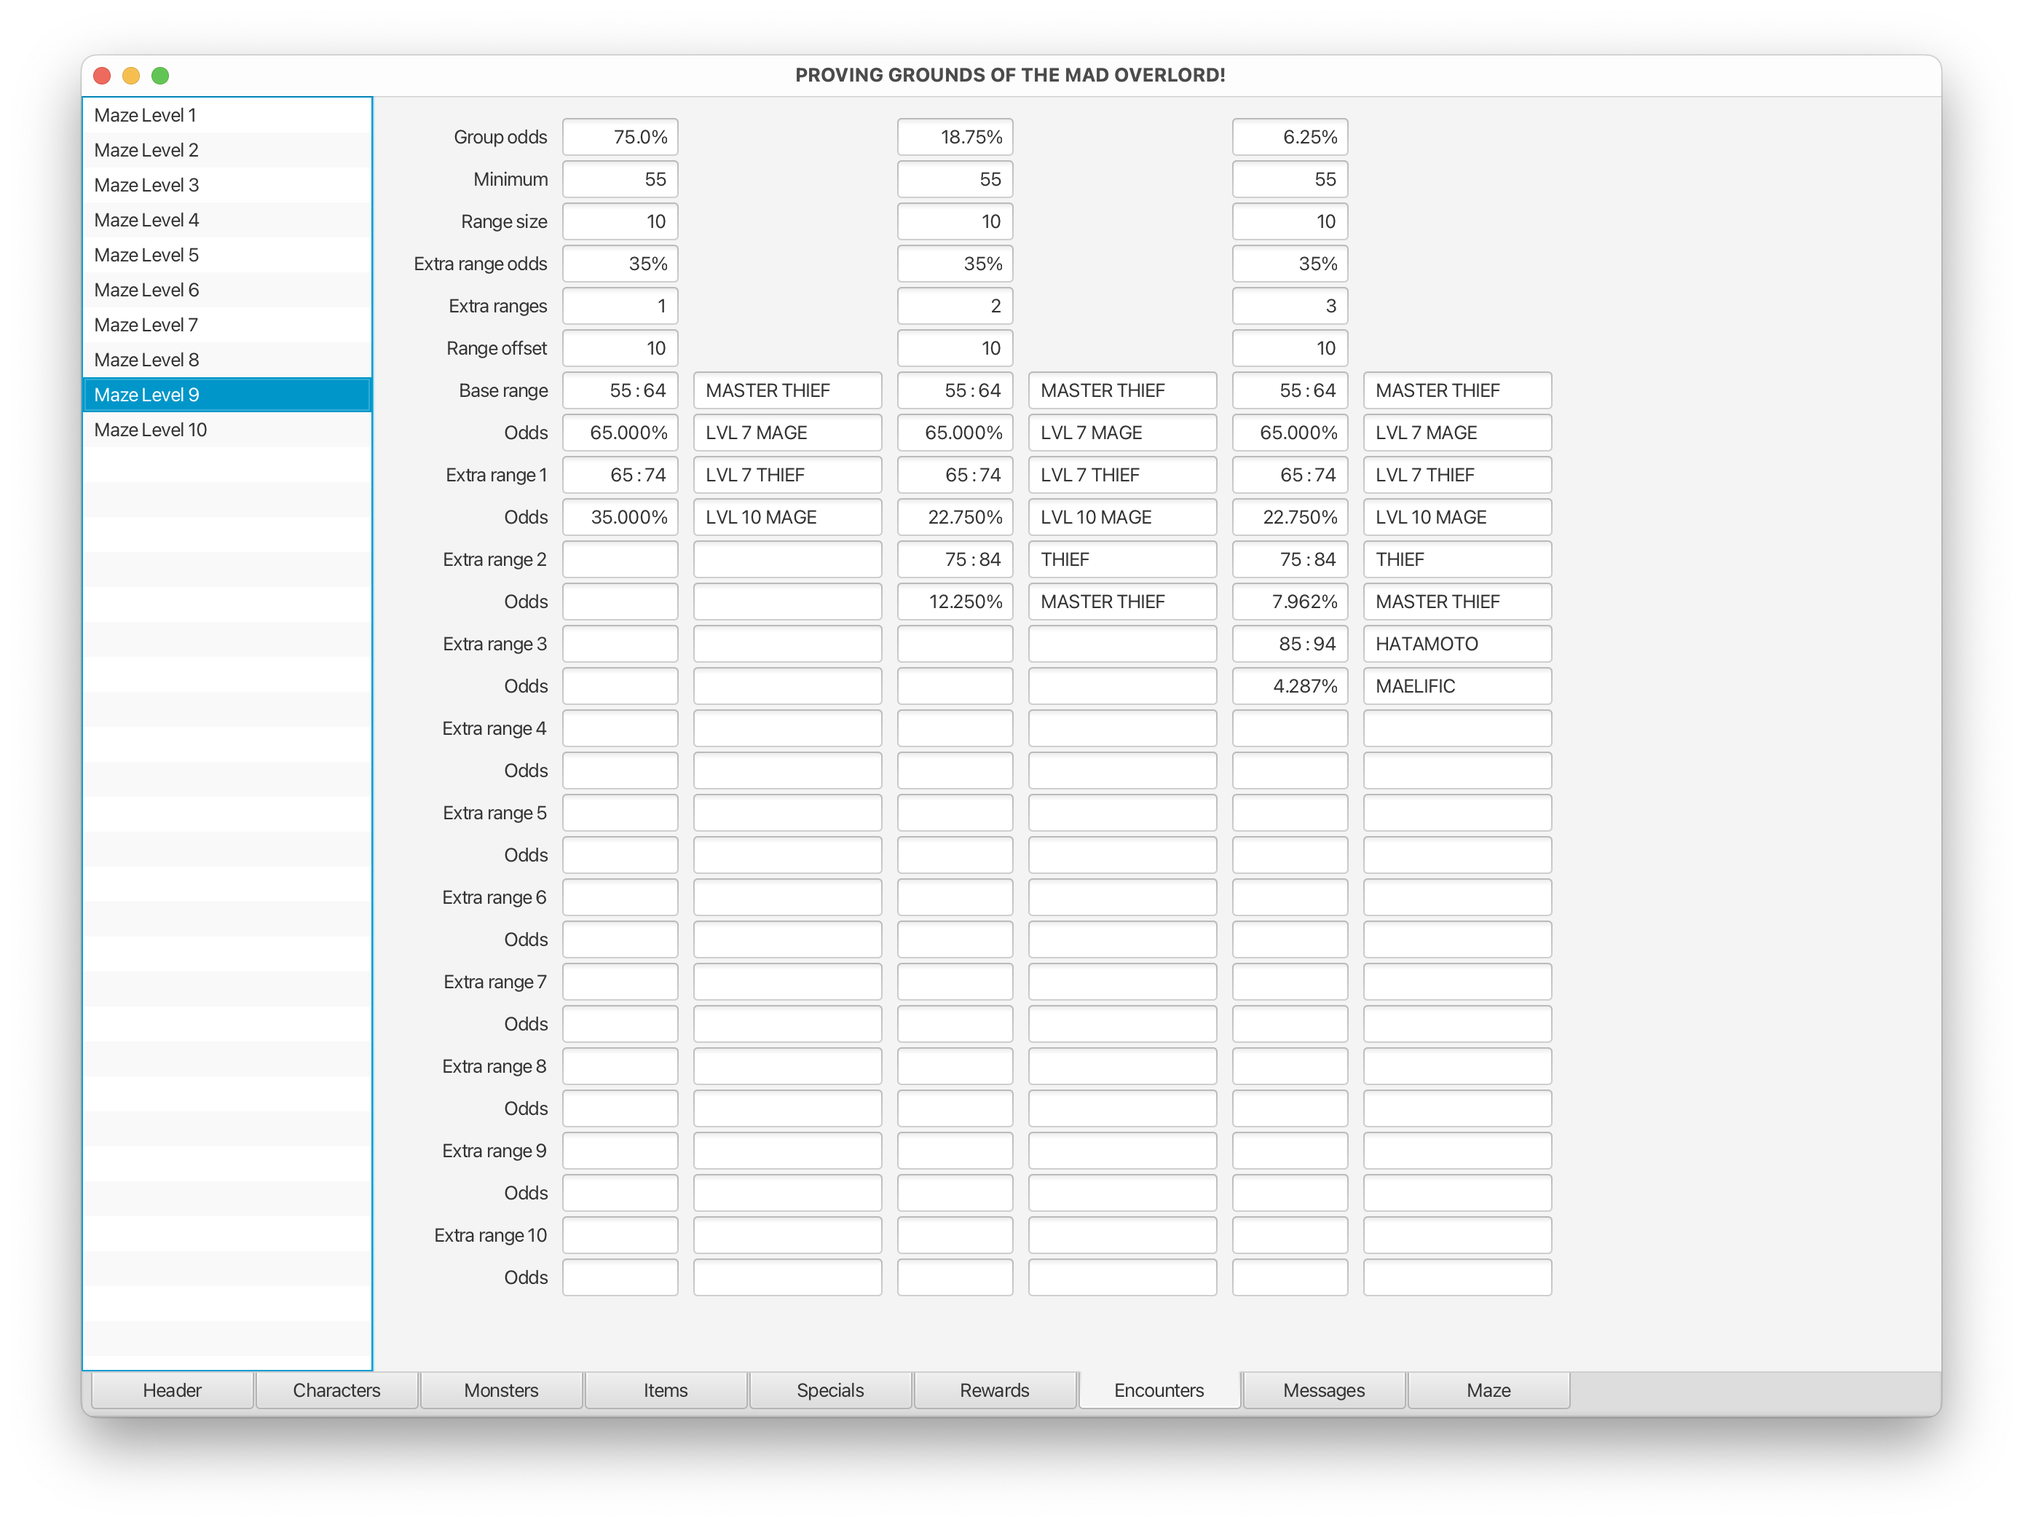
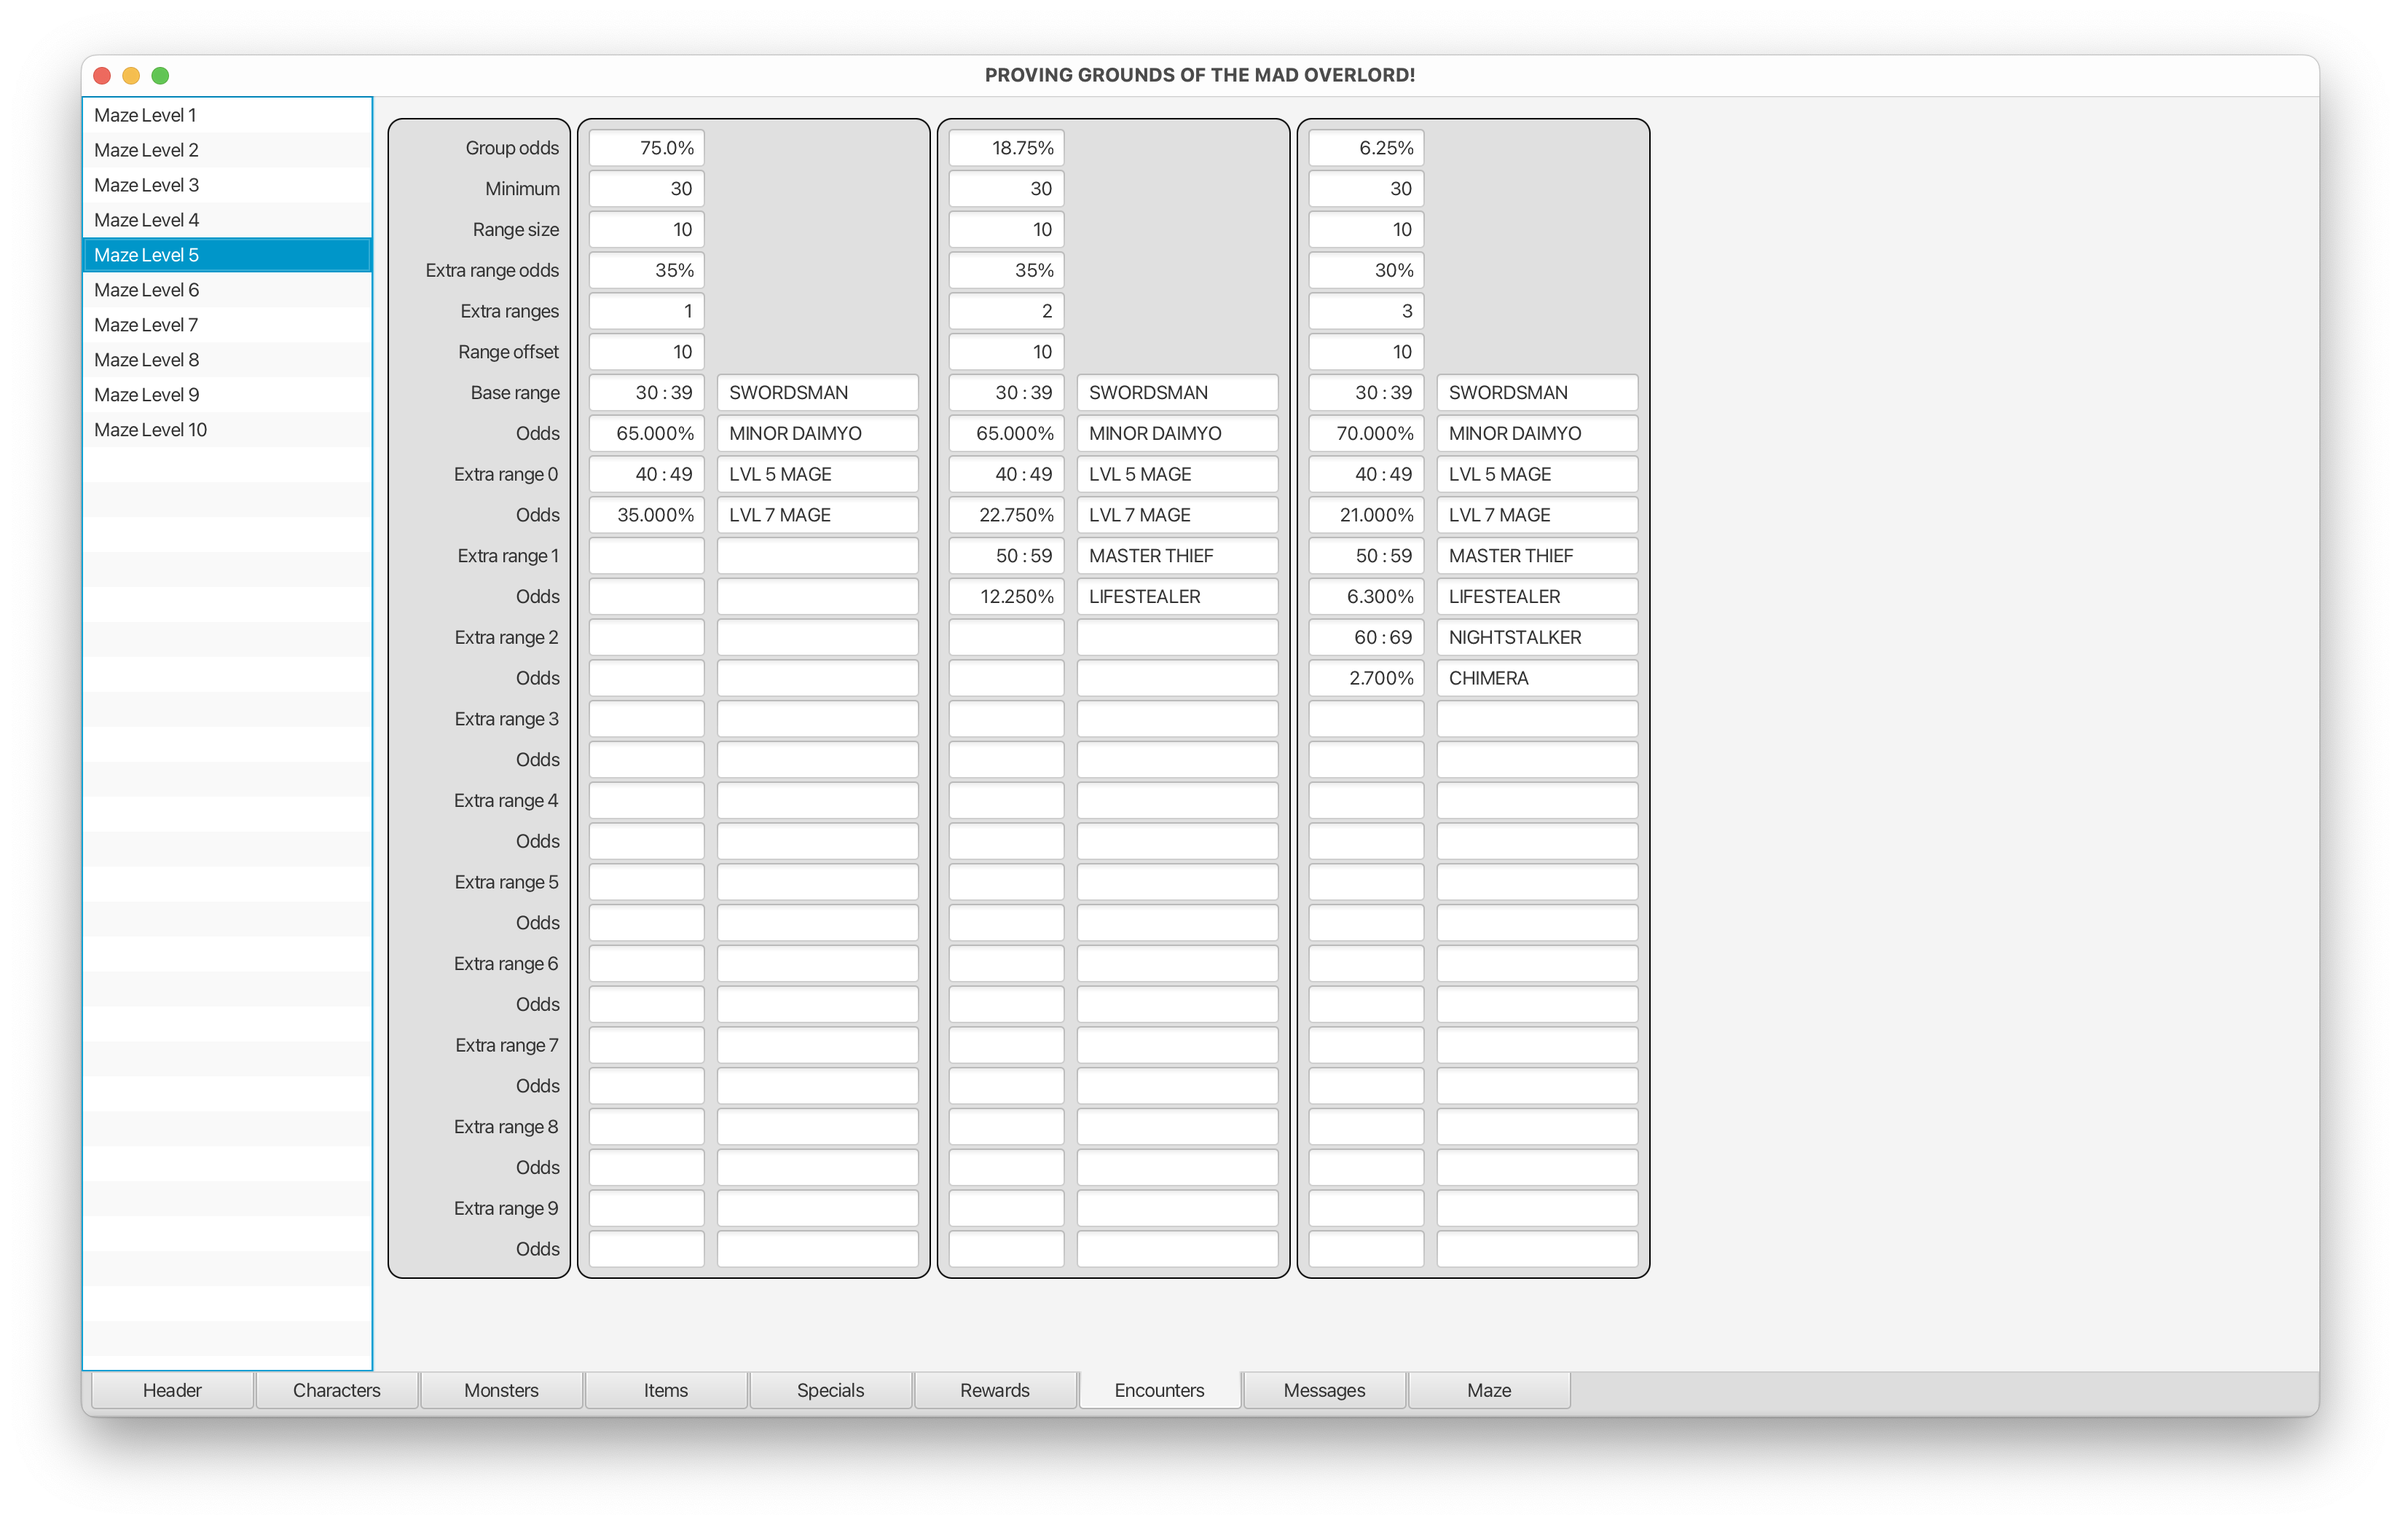
modified encounters pane

diff --git a/src/com/bytezone/wizardry/EncountersRootPane.java b/src/com/bytezone/wizardry/EncountersRootPane.java
@@ -1,157 +1,50 @@
 package com.bytezone.wizardry;
 
-import com.bytezone.appbase.DataLayout;
 import com.bytezone.appbase.DataPane;
-import com.bytezone.wizardry.data.EnemyOdds;
 import com.bytezone.wizardry.data.MazeLevel;
-import com.bytezone.wizardry.data.Monster;
 import com.bytezone.wizardry.data.WizardryData;
-import com.bytezone.wizardry.graphics.Display;
-
-import javafx.geometry.HPos;
-import javafx.geometry.Pos;
-import javafx.scene.control.ComboBox;
-import javafx.scene.control.TextField;
-import javafx.scene.layout.GridPane;
 
 //-----------------------------------------------------------------------------------//
 public class EncountersRootPane extends DataPane
 //-----------------------------------------------------------------------------------//
 {
-  private static final int MAX_GROUPS = 3;
-
-  ComboBox<MazeLevel> mazeLevelList = new ComboBox<> ();
-
-  TextField[][] textOut1 = new TextField[MAX_GROUPS][];
-  TextField[][] textOut2 = new TextField[MAX_GROUPS * 2][];
-
-  Display display;
-  private WizardryData wizardry;
+  private EncountersLabelsPane encountersLabels = new EncountersLabelsPane ();
+  private EncountersTable encountersTable0 = new EncountersTable (0);
+  private EncountersTable encountersTable1 = new EncountersTable (1);
+  private EncountersTable encountersTable2 = new EncountersTable (2);
 
   // ---------------------------------------------------------------------------------//
   public EncountersRootPane ()
   // ---------------------------------------------------------------------------------//
   {
-    super (7, 27);                             // columns, rows
+    super (50, 27);                           // columns, rows
 
-    setColumnConstraints (110, 80, 130, 80, 130, 80, 130);
-    setPadding (defaultInsets);
+    setAllColumnConstraints (5);              // all columns 5 pixels wide
+    setPadding (defaultInsets);               // only the root pane has insets
 
-    String[] labels1 = { "Group odds", "Minimum", "Range size", "Extra range odds", "Extra ranges",
-        "Range offset" };
+    setLayout (encountersLabels, 0, 0);
+    setLayout (encountersTable0, 10, 0);
+    setLayout (encountersTable1, 29, 0);
+    setLayout (encountersTable2, 48, 0);
 
-    String[] labels2 = new String[22];
-    labels2[0] = "Base range";
-    labels2[1] = "Odds";
-    for (int i = 1; i < 11; i++)
-    {
-      labels2[i * 2] = "Extra range " + i;
-      labels2[i * 2 + 1] = labels2[1];
-    }
-
-    // upper block
-    createLabelsVertical (labels1, 0, 0, HPos.RIGHT);
-
-    textOut1[0] = createTextFields (new DataLayout (1, 0, 6, Pos.CENTER_RIGHT, 1));
-    textOut1[1] = createTextFields (new DataLayout (3, 0, 6, Pos.CENTER_RIGHT, 1));
-    textOut1[2] = createTextFields (new DataLayout (5, 0, 6, Pos.CENTER_RIGHT, 1));
-
-    // lower block
-    createLabelsVertical (labels2, 0, 6, HPos.RIGHT);
-
-    DataLayout dataLayout = new DataLayout (1, 6, 22, Pos.CENTER_RIGHT, 1);
-    for (int i = 0; i < 5; i += 2)
-    {
-      textOut2[i] = createTextFields (dataLayout, Pos.CENTER_RIGHT);
-      textOut2[i + 1] = createTextFields (dataLayout, Pos.CENTER_LEFT);
-    }
+    getChildren ().addAll (encountersLabels, encountersTable0, encountersTable1, encountersTable2);
   }
 
   // ---------------------------------------------------------------------------------//
   public void setWizardry (WizardryData wizardry)
   // ---------------------------------------------------------------------------------//
   {
-    this.wizardry = wizardry;
-
-    for (int i = 0; i < MAX_GROUPS; i++)
-      reset (textOut1[i]);
-    for (int i = 0; i < MAX_GROUPS * 2; i++)
-      reset (textOut2[i]);
-
-    if (false)
-    {
-      if (display != null)
-        getChildren ().remove (display);
-
-      if (wizardry.getScenarioId () < 3)
-      {
-        display = new Display (wizardry);
-        GridPane.setConstraints (display, 7, 1);
-        GridPane.setRowSpan (display, 12);
-        getChildren ().add (display);
-      }
-    }
+    encountersTable0.setWizardry (wizardry);
+    encountersTable1.setWizardry (wizardry);
+    encountersTable2.setWizardry (wizardry);
   }
 
   // ---------------------------------------------------------------------------------//
   void update (MazeLevel mazeLevel)
   // ---------------------------------------------------------------------------------//
   {
-    EnemyOdds[] enemyOdds = mazeLevel.getEnemyOdds ();
-    double[] groupOdds = { 75, 18.75, 6.25 };
-
-    for (int i = 0; i < MAX_GROUPS; i++)
-    {
-      int minEnemy = enemyOdds[i].minEnemy;
-      int rangeSize = enemyOdds[i].rangeSize;
-      int extraRangeOffset = enemyOdds[i].extraRangeOffset;
-      int totExtraRanges = enemyOdds[i].totExtraRanges;
-      int extraRangeOdds = enemyOdds[i].extraRangeOdds;
-
-      double[] oddsTable = enemyOdds[i].getOdds ();
-
-      for (int row = 2; row < 22; row++)
-      {
-        setText (textOut2[i * 2][row], "");
-        setText (textOut2[i * 2 + 1][row], "");
-      }
-
-      setText (textOut1[i][0], groupOdds[i] + "%");
-      setText (textOut1[i][1], minEnemy);
-      setText (textOut1[i][2], rangeSize);
-      setText (textOut1[i][3], extraRangeOdds + "%");
-      setText (textOut1[i][4], totExtraRanges);
-      setText (textOut1[i][5], extraRangeOffset);
-
-      int maxEnemy = minEnemy + rangeSize - 1;
-      setMinMax (i * 2, 0, minEnemy, maxEnemy);
-      setText (textOut2[i * 2][1], String.format ("%5.3f%%", oddsTable[0] * 100));
-
-      for (int row = 1; row <= totExtraRanges; row++)
-      {
-        minEnemy += extraRangeOffset;
-        maxEnemy += extraRangeOffset;
-        setMinMax (i * 2, row * 2, minEnemy, maxEnemy);
-        setText (textOut2[i * 2][row * 2 + 1], String.format ("%5.3f%%", oddsTable[row] * 100));
-      }
-    }
-
-    if (display != null)
-      display.update (mazeLevel);
-  }
-
-  // ---------------------------------------------------------------------------------//
-  private void setMinMax (int index1, int index2, int minEnemy, int maxEnemy)
-  // ---------------------------------------------------------------------------------//
-  {
-    Monster minMonster = wizardry.getMonster (minEnemy);
-    Monster maxMonster = wizardry.getMonster (maxEnemy);
-
-    String minName = minMonster == null ? "?" : minMonster.name;
-    String maxName = maxMonster == null ? "?" : maxMonster.name;
-
-    setText (textOut2[index1][index2], minEnemy + " : " + maxEnemy);
-    setText (textOut2[index1 + 1][index2], minName);
-    setText (textOut2[index1 + 1][index2 + 1], maxName);
+    encountersTable0.update (mazeLevel);
+    encountersTable1.update (mazeLevel);
+    encountersTable2.update (mazeLevel);
   }
 }

diff --git a/src/com/bytezone/wizardry/EncountersTable.java b/src/com/bytezone/wizardry/EncountersTable.java
@@ -1,0 +1,101 @@
+package com.bytezone.wizardry;
+
+import com.bytezone.appbase.BorderedDataPane;
+import com.bytezone.appbase.DataLayout;
+import com.bytezone.wizardry.data.EnemyOdds;
+import com.bytezone.wizardry.data.MazeLevel;
+import com.bytezone.wizardry.data.Monster;
+import com.bytezone.wizardry.data.WizardryData;
+
+import javafx.geometry.Pos;
+import javafx.scene.control.TextField;
+
+public class EncountersTable extends BorderedDataPane
+{
+  TextField[] textOut1;
+  TextField[] textOut2;
+
+  private WizardryData wizardry;
+  private final int groupNo;
+  private static double[] groupOdds = { 75, 18.75, 6.25 };
+
+  // ---------------------------------------------------------------------------------//
+  public EncountersTable (int groupNo)
+  // ---------------------------------------------------------------------------------//
+  {
+    super (1, 28);                              // columns, rows
+
+    this.groupNo = groupNo;
+
+    setColumnConstraints (80, 139);
+
+    textOut1 = createTextFields (new DataLayout (0, 0, 28, Pos.CENTER_RIGHT, 1));
+    textOut2 = createTextFields (new DataLayout (1, 6, 22, Pos.CENTER_LEFT, 1));
+  }
+
+  // ---------------------------------------------------------------------------------//
+  public void setWizardry (WizardryData wizardry)
+  // ---------------------------------------------------------------------------------//
+  {
+    this.wizardry = wizardry;
+
+    reset (textOut1);
+    reset (textOut2);
+  }
+
+  // ---------------------------------------------------------------------------------//
+  void update (MazeLevel mazeLevel)
+  // ---------------------------------------------------------------------------------//
+  {
+
+    EnemyOdds[] enemyOdds = mazeLevel.getEnemyOdds ();
+
+    int minEnemy = enemyOdds[groupNo].minEnemy;
+    int rangeSize = enemyOdds[groupNo].rangeSize;
+    int extraRangeOffset = enemyOdds[groupNo].extraRangeOffset;
+    int totExtraRanges = enemyOdds[groupNo].totExtraRanges;
+    int extraRangeOdds = enemyOdds[groupNo].extraRangeOdds;
+
+    double[] oddsTable = enemyOdds[groupNo].getOdds ();
+
+    for (int row = 2; row < 22; row++)        // skip base
+    {
+      setText (textOut1[row + 6], "");
+      setText (textOut2[row], "");
+    }
+
+    setText (textOut1[0], groupOdds[groupNo] + "%");
+    setText (textOut1[1], minEnemy);
+    setText (textOut1[2], rangeSize);
+    setText (textOut1[3], extraRangeOdds + "%");
+    setText (textOut1[4], totExtraRanges);
+    setText (textOut1[5], extraRangeOffset);
+
+    int maxEnemy = minEnemy + rangeSize - 1;
+    setMinMax (0, minEnemy, maxEnemy);
+    setText (textOut1[7], String.format ("%5.3f%%", oddsTable[0] * 100));
+
+    for (int row = 1; row <= totExtraRanges; row++)
+    {
+      minEnemy += extraRangeOffset;
+      maxEnemy += extraRangeOffset;
+      setMinMax (row * 2, minEnemy, maxEnemy);
+      setText (textOut1[row * 2 + 7], String.format ("%5.3f%%", oddsTable[row] * 100));
+    }
+  }
+
+  // ---------------------------------------------------------------------------------//
+  private void setMinMax (int index, int minEnemy, int maxEnemy)
+  // ---------------------------------------------------------------------------------//
+  {
+    Monster minMonster = wizardry.getMonster (minEnemy);
+    Monster maxMonster = wizardry.getMonster (maxEnemy);
+
+    String minName = minMonster == null ? "?" : minMonster.name;
+    String maxName = maxMonster == null ? "?" : maxMonster.name;
+
+    setText (textOut1[index + 6], minEnemy + " : " + maxEnemy);
+    setText (textOut2[index], minName);
+    setText (textOut2[index + 1], maxName);
+  }
+}

diff --git a/src/com/bytezone/wizardry/EncountersLabelsPane.java b/src/com/bytezone/wizardry/EncountersLabelsPane.java
@@ -1,0 +1,31 @@
+package com.bytezone.wizardry;
+
+import com.bytezone.appbase.BorderedDataPane;
+
+import javafx.geometry.HPos;
+
+// -----------------------------------------------------------------------------------//
+public class EncountersLabelsPane extends BorderedDataPane
+// -----------------------------------------------------------------------------------//
+{
+  // ---------------------------------------------------------------------------------//
+  public EncountersLabelsPane ()
+  // ---------------------------------------------------------------------------------//
+  {
+    super (1, 28);                              // columns, rows
+
+    setColumnConstraints (110);
+
+    String[] labels = { "Group odds", "Minimum", "Range size", "Extra range odds", "Extra ranges",
+        "Range offset", "Base range", "Odds", "", "", "", "", "", "", "", "", "", "", "", "", "",
+        "", "", "", "", "", "", "" };
+
+    for (int i = 0; i < 10; i++)
+    {
+      labels[i * 2 + 8] = "Extra range " + i;
+      labels[i * 2 + 9] = labels[7];
+    }
+
+    createLabelsVertical (labels, 0, 0, HPos.RIGHT);
+  }
+}
